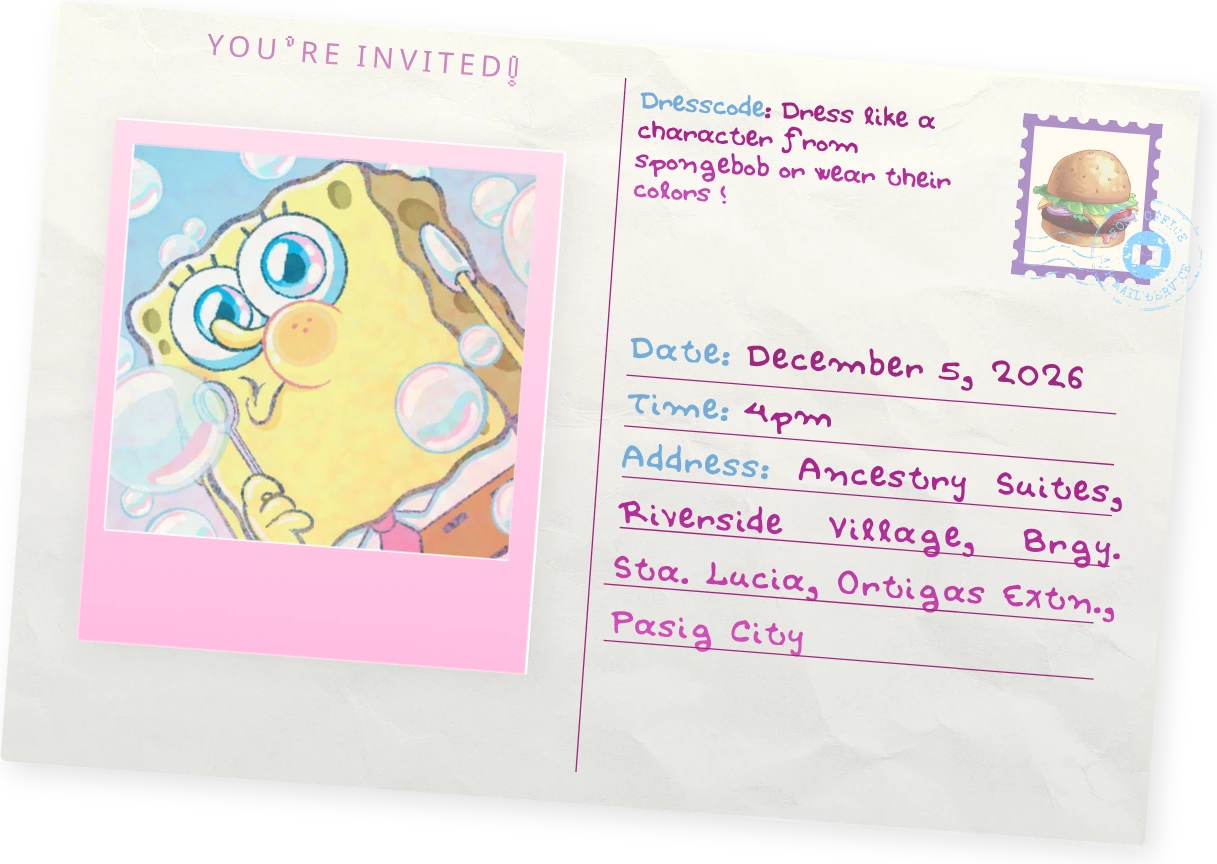
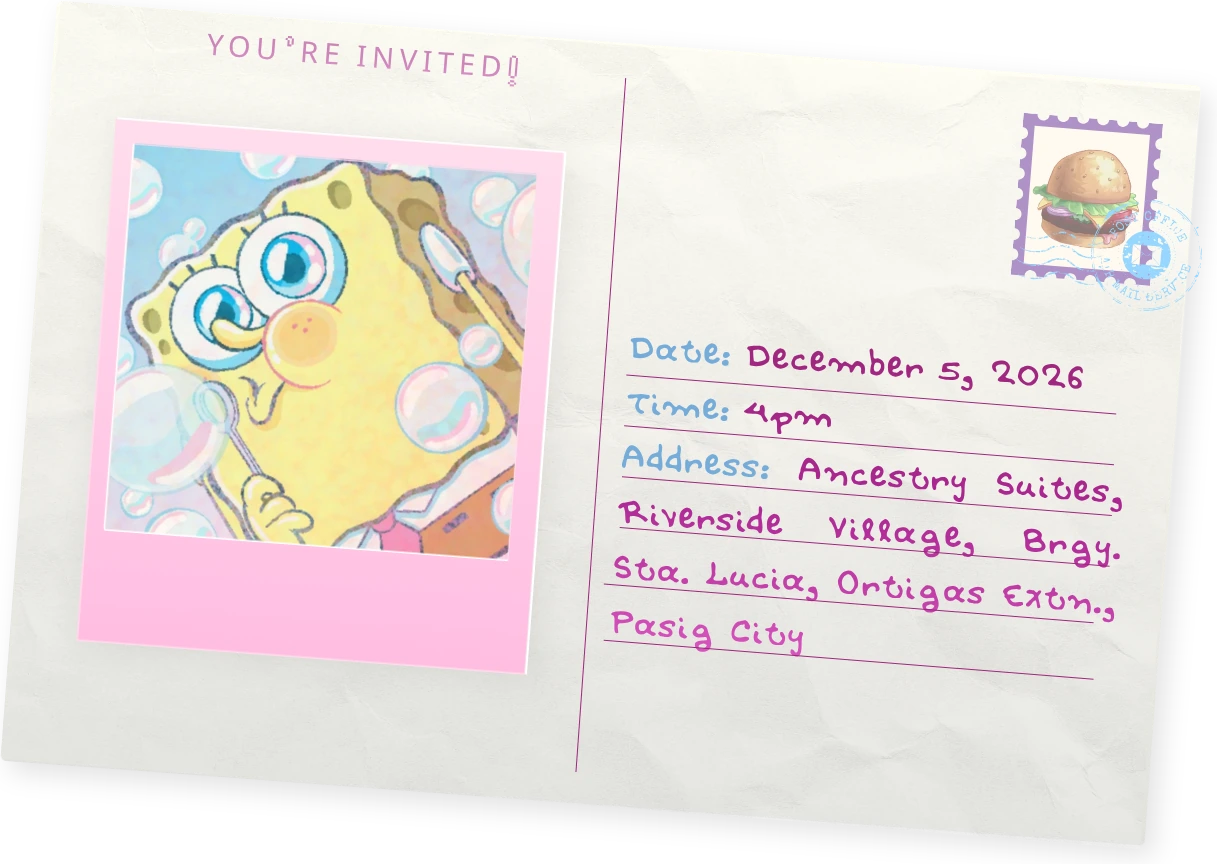
Add files via upload

Changed region(s): [[0.4996, 0.0938, 0.7806, 0.25]]

diff --git a/index.html b/index.html
@@ -180,6 +180,7 @@
   .row { display: flex; justify-content: center; align-items: flex-start; gap: 0 clamp(2rem, 8vw, 7.5rem); flex-wrap: wrap; }
   .row > div > div { white-space: nowrap; }
   .wish { gap: 0; line-height: 1.3; }
+  .dress { gap: 0; line-height: 1.55; font-size: clamp(1.15rem, 3.6vh, 2.2rem); }
   .wish div { padding: .08em 0; }
   .arrow { position: absolute; top: 50%; width: 64px; height: 90px; margin-top: -45px; border: 0; background: none; padding: 0; cursor: pointer; color: var(--mag); display: grid; place-items: center; -webkit-tap-highlight-color: transparent; transition: transform .2s, opacity .3s; }
   .arrow svg { width: 42px; height: 52px; }
@@ -293,6 +294,11 @@
           <div class="mq mq-top" data-t="wishlist"></div>
           <h2 class="center"><img src="h-wishlist.webp" alt="wishlist" style="--n:768" width="768" height="141"></h2>
           <div class="body wish"><div>Sonny angels</div><div>Smiskis</div><div>Squishies</div><div>Littlest pet shop toys</div><div>Tabalicious DIY kit</div><div>Snack tastic sweet creations diy kit</div><div>SM gift card</div><div>Slime mart kits</div><div>Cash</div></div>
+        </section>
+        <section class="page" aria-label="Dresscode">
+          <div class="mq mq-top" data-t="dresscode"></div>
+          <h2 class="center"><img src="h-dresscode.webp" alt="dresscode" style="--n:865" width="294" height="58"></h2>
+          <div class="body dress"><div>Dress like a character from spongebob</div><div>or wear their colors !</div></div>
         </section>
       </div>
       <div class="mq mq-bottom rev fadeout" data-t="Nadine @18"></div>
